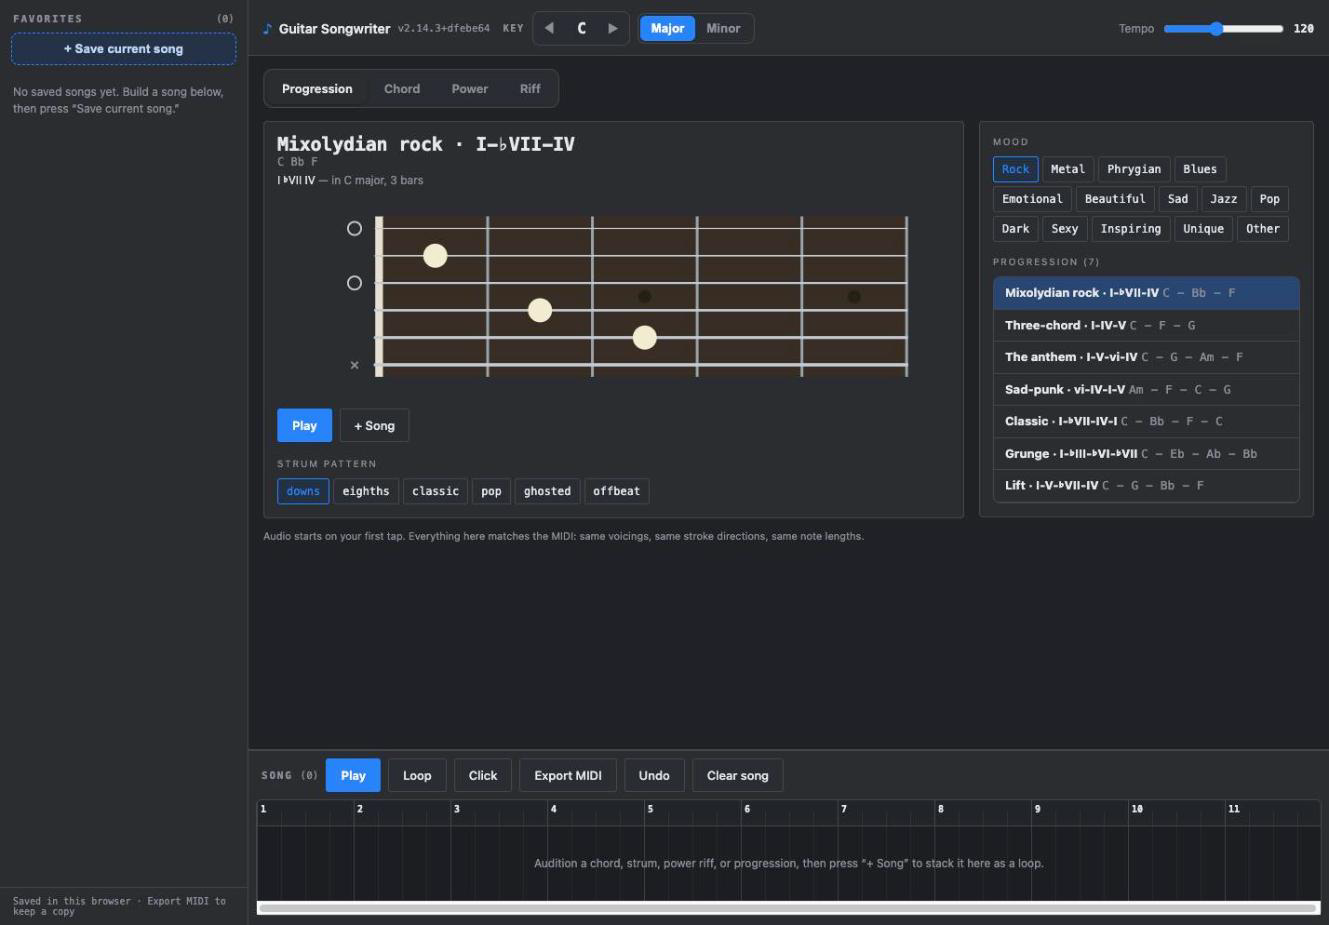
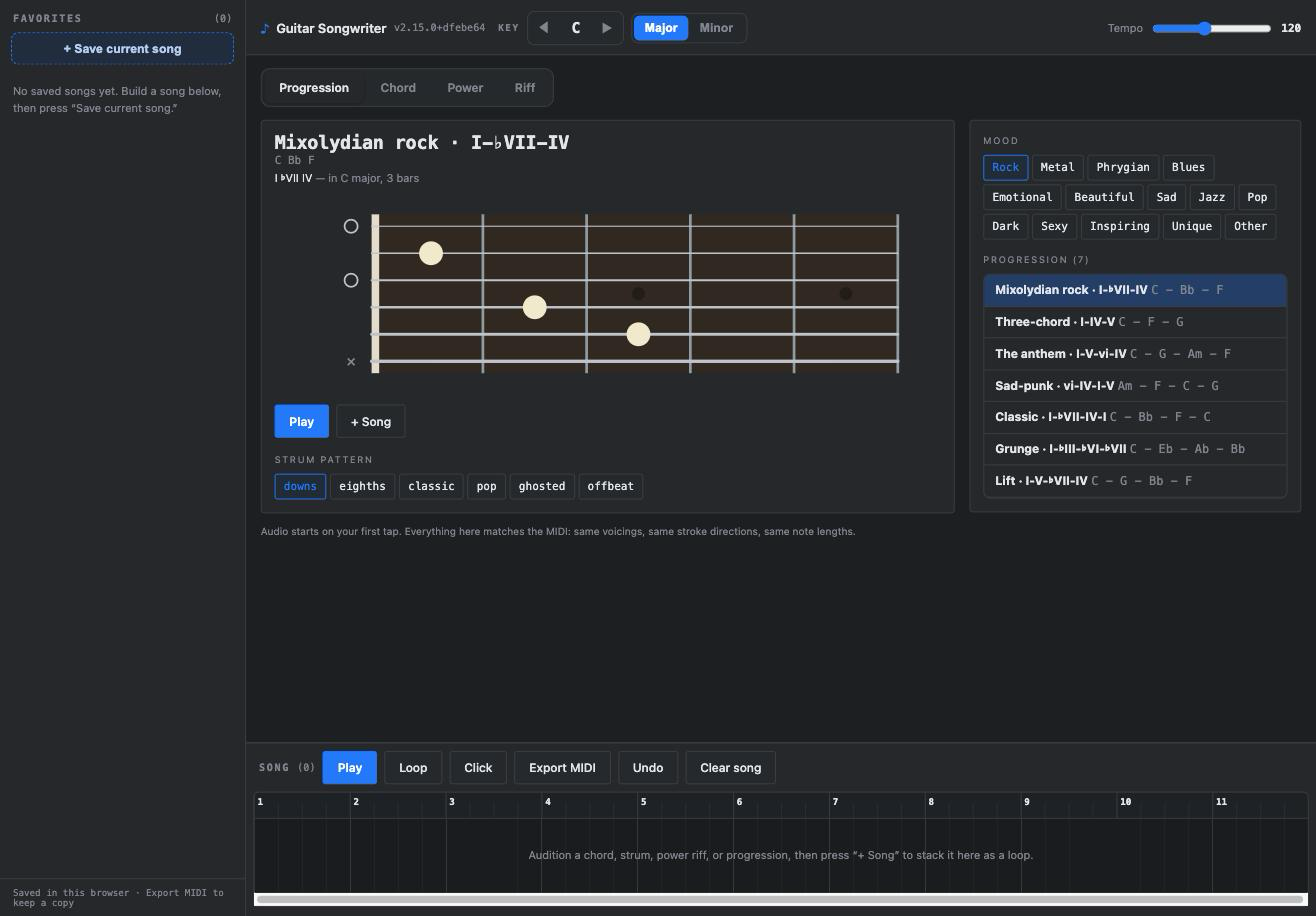
README: regenerate screenshots from the current UI (Riff tab, v2.15.0)
The committed images predated the redesign — no Riff tab, old version
stamp. Recapture the Chord and Progression views from the live 2.15.0
build in a clean state (empty song, no favorites) and bump the image
cache-buster to ?v=4 so viewers fetch the fresh files.

diff --git a/README.md b/README.md
@@ -16,7 +16,7 @@ timeline, and export the result as MIDI. Every chord is an actual hand shape, no
 ![voicings](https://img.shields.io/badge/voicings-336-64b5f6)
 ![progressions](https://img.shields.io/badge/progressions-231-64b5f6)
 
-<img src="docs/images/screenshot-chords.png?v=3" alt="Guitar Songwriter — auditioning a C major voicing with its diatonic chords, strum patterns, inversions, and the song arranger docked below" width="880">
+<img src="docs/images/screenshot-chords.png?v=4" alt="Guitar Songwriter — auditioning a C major voicing with its diatonic chords, strum patterns, inversions, and the song arranger docked below" width="880">
 
 </div>
 
@@ -106,7 +106,7 @@ Every chord, six strum patterns, and power chords in thirteen riff patterns — 
 Pick a style, click a progression, and audition or insert it in any key. Metal archetypes voice as power chords automatically.
 
 <div align="center">
-<img src="docs/images/screenshot-progressions.png?v=3" alt="The progression library, filtered by mood, auditioning a progression in the current key" width="880">
+<img src="docs/images/screenshot-progressions.png?v=4" alt="The progression library, filtered by mood, auditioning a progression in the current key" width="880">
 </div>
 
 ## What's in the box
